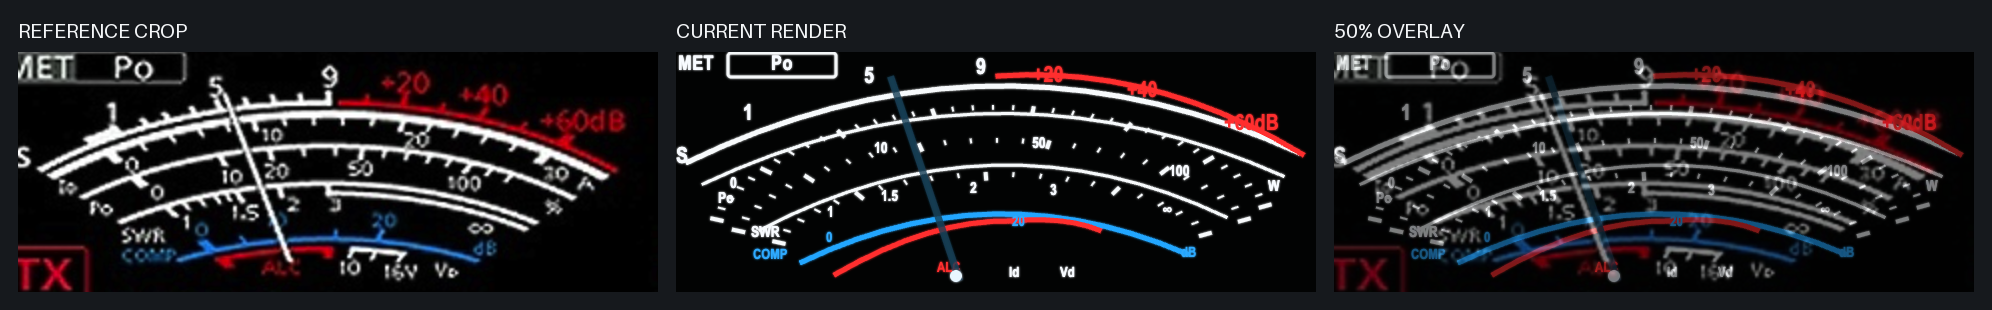
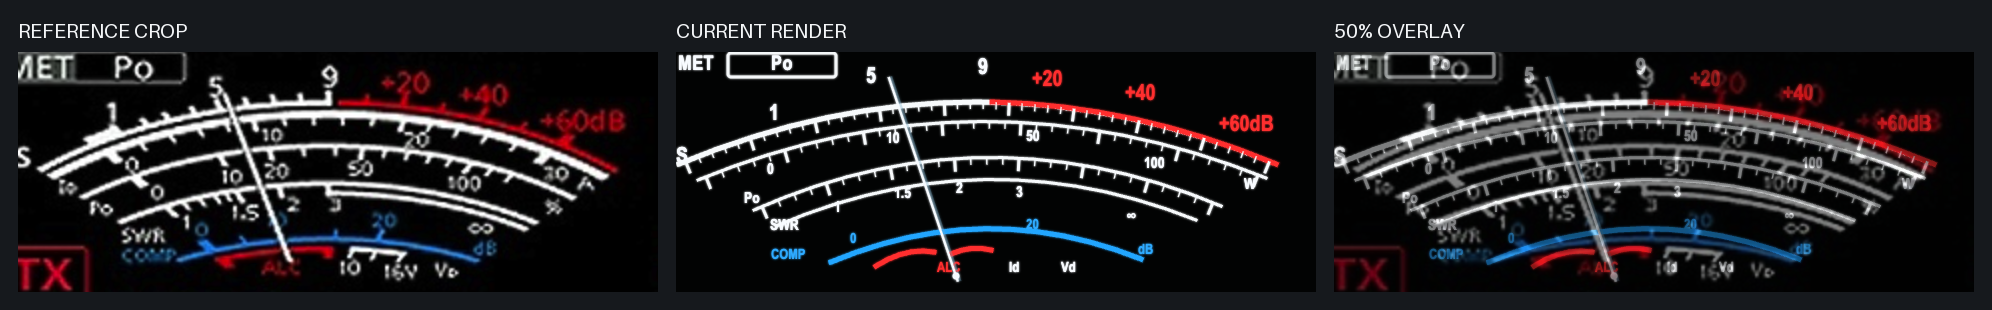
fix: refine touchscreen needle geometry

Changed region(s): [[0.3424, 0.2032, 0.996, 0.9], [0.8092, 0.8419, 0.8715, 0.9], [0.747, 0.2323, 0.7781, 0.2613]]

diff --git a/frontend/src/components-v2/meters/IcomTouchNeedleMeter.svelte b/frontend/src/components-v2/meters/IcomTouchNeedleMeter.svelte
@@ -39,23 +39,33 @@
     readonly major: boolean;
   }
 
-  const radialTicks = (count: number, cx: number, cy: number, rx: number, ry: number): Tick[] =>
+  interface Point { readonly x: number; readonly y: number }
+
+  const curveTicks = (
+    count: number, start: Point, control: Point, end: Point, majorEvery: number,
+  ): Tick[] =>
     Array.from({ length: count }, (_, index) => {
-      const angle = (-160 + (135 * index) / (count - 1)) * Math.PI / 180;
-      const major = index % 5 === 0;
-      const inset = major ? 14 : 8;
+      const t = (index + 0.5) / count;
+      const inverse = 1 - t;
+      const x1 = inverse * inverse * start.x + 2 * inverse * t * control.x + t * t * end.x;
+      const y1 = inverse * inverse * start.y + 2 * inverse * t * control.y + t * t * end.y;
+      const dx = 2 * inverse * (control.x - start.x) + 2 * t * (end.x - control.x);
+      const dy = 2 * inverse * (control.y - start.y) + 2 * t * (end.y - control.y);
+      const magnitude = Math.hypot(dx, dy);
+      const major = index % majorEvery === 0;
+      const inset = major ? 13 : 7;
       return {
-        x1: cx + rx * Math.cos(angle),
-        y1: cy + ry * Math.sin(angle),
-        x2: cx + (rx - inset) * Math.cos(angle),
-        y2: cy + (ry - inset * 0.6) * Math.sin(angle),
+        x1,
+        y1,
+        x2: x1 + (-dy / magnitude) * inset,
+        y2: y1 + (dx / magnitude) * inset,
         major,
       };
     });
 
-  const OUTER_TICKS = radialTicks(36, 320, 225, 304, 172);
-  const POWER_TICKS = radialTicks(26, 320, 225, 281, 139);
-  const INNER_TICKS = radialTicks(21, 320, 225, 238, 105);
+  const OUTER_TICKS = curveTicks(46, { x: 3, y: 112 }, { x: 300, y: -12 }, { x: 600, y: 112 }, 5);
+  const POWER_TICKS = curveTicks(36, { x: 22, y: 128 }, { x: 305, y: 12 }, { x: 590, y: 126 }, 5);
+  const INNER_TICKS = curveTicks(29, { x: 78, y: 158 }, { x: 310, y: 55 }, { x: 545, y: 154 }, 4);
 </script>
 
 <div
@@ -76,11 +86,6 @@
         <feGaussianBlur stdDeviation="1.1" result="blur" />
         <feMerge><feMergeNode in="blur" /><feMergeNode in="SourceGraphic" /></feMerge>
       </filter>
-      <linearGradient id="meter-needle" x1="0" x2="1">
-        <stop offset="0" stop-color="#73cfff" />
-        <stop offset="0.45" stop-color="#f5fbff" />
-        <stop offset="1" stop-color="#ffffff" />
-      </linearGradient>
     </defs>
 
     <rect width="640" height="240" fill="#020303" />
@@ -96,8 +101,8 @@
         <text x="106" y="18" text-anchor="middle">{selectedScale}</text>
       </g>
 
-      <path class="scale white heavy" d="M 12 110 Q 318 -38 626 102" />
-      <path class="scale red heavy" d="M 322 24 Q 478 13 626 102" />
+      <path class="scale white heavy" d="M 3 112 Q 300 -12 600 112" />
+      <path class="scale red heavy" d="M 316 50 Q 458 53 600 112" />
       {#each OUTER_TICKS as tick}
         <line
           class:major={tick.major}
@@ -108,15 +113,15 @@
 
       <g class="outer-labels">
         <text x="0" y="111">S</text>
-        <text x="67" y="68">1</text>
-        <text x="188" y="31">5</text>
-        <text x="300" y="22">9</text>
-        <text class="red-text" x="357" y="30">+20</text>
-        <text class="red-text" x="451" y="45">+40</text>
-        <text class="red-text" x="548" y="78">+60dB</text>
+        <text x="93" y="68">1</text>
+        <text x="190" y="31">5</text>
+        <text x="302" y="22">9</text>
+        <text class="red-text" x="356" y="34">+20</text>
+        <text class="red-text" x="449" y="48">+40</text>
+        <text class="red-text" x="543" y="79">+60dB</text>
       </g>
 
-      <path class="scale white" d="M 27 132 Q 318 -5 607 124" />
+      <path class="scale white" d="M 22 128 Q 305 12 590 126" />
       {#each POWER_TICKS as tick}
         <line
           class:major={tick.major}
@@ -125,15 +130,15 @@
         />
       {/each}
       <g class="power-labels">
-        <text x="54" y="136">0</text>
-        <text x="198" y="101">10</text>
-        <text x="356" y="96">50</text>
-        <text x="493" y="124">100</text>
-        <text x="592" y="139">W</text>
-        <text x="42" y="151">Po</text>
+        <text x="91" y="122">0</text>
+        <text x="210" y="91">10</text>
+        <text x="350" y="89">50</text>
+        <text x="468" y="116">100</text>
+        <text x="568" y="137">W</text>
+        <text x="68" y="151">Po</text>
       </g>
 
-      <path class="scale white" d="M 84 178 Q 318 55 550 165" />
+      <path class="scale white" d="M 78 158 Q 310 55 545 154" />
       {#each INNER_TICKS as tick}
         <line
           class:major={tick.major}
@@ -141,26 +146,27 @@
           x1={tick.x1} y1={tick.y1} x2={tick.x2} y2={tick.y2}
         />
       {/each}
+      <path class="scale white" d="M 100 174 Q 310 84 520 168" />
       <g class="inner-labels">
-        <text x="75" y="185">SWR</text>
-        <text x="151" y="165">1</text>
-        <text x="205" y="149">1.5</text>
-        <text x="294" y="141">2</text>
-        <text x="374" y="143">3</text>
-        <text x="486" y="163">∞</text>
+        <text x="94" y="178">SWR</text>
+        <text x="158" y="160">1</text>
+        <text x="218" y="146">1.5</text>
+        <text x="280" y="141">2</text>
+        <text x="340" y="145">3</text>
+        <text x="450" y="169">∞</text>
       </g>
 
-      <path class="scale blue heavy" d="M 126 210 Q 317 118 511 202" />
-      <path class="scale red heavy" d="M 160 222 Q 255 167 337 169" />
-      <path class="scale red heavy" d="M 334 169 Q 389 164 423 178" />
+      <path class="scale blue heavy" d="M 155 210 Q 310 145 465 207" />
+      <path class="scale red heavy" d="M 200 214 Q 230 195 258 200" />
+      <path class="scale red heavy" d="M 275 202 Q 295 193 315 198" />
       <g class="lower-labels">
-        <text class="blue-text" x="77" y="207">COMP</text>
-        <text class="blue-text" x="150" y="190">0</text>
-        <text class="blue-text" x="336" y="174">20</text>
-        <text class="blue-text" x="505" y="205">dB</text>
+        <text class="blue-text" x="95" y="207">COMP</text>
+        <text class="blue-text" x="174" y="191">0</text>
+        <text class="blue-text" x="350" y="177">20</text>
+        <text class="blue-text" x="462" y="202">dB</text>
         <text class="red-text" x="261" y="220">ALC</text>
-        <text x="333" y="225">Id</text>
-        <text x="384" y="225">Vd</text>
+        <text x="333" y="220">Id</text>
+        <text x="385" y="220">Vd</text>
       </g>
 
       {#if state === 'known'}
@@ -168,7 +174,7 @@
           <line class="needle-shadow" x1="274" y1="226" x2="490" y2="226" />
           <line class="needle" x1="274" y1="224" x2="490" y2="224" />
         </g>
-        <circle cx="280" cy="224" r="6" fill="#e8f6ff" />
+        <circle cx="280" cy="224" r="3.5" fill="#f6fbff" />
       {:else if state === 'unknown'}
         <text data-meter-unknown class="unknown" x="320" y="213" text-anchor="middle">?</text>
       {/if}
@@ -201,15 +207,15 @@
   .white { stroke: #f7fafc; }
   .red { stroke: #ff2f2f; }
   .blue { stroke: #24a6ff; }
-  .tick { stroke: #f7fafc; stroke-width: 2; }
-  .tick.major { stroke-width: 4; }
+  .tick { stroke: #f7fafc; stroke-width: 1.4; }
+  .tick.major { stroke-width: 3; }
   .outer-labels text { font-size: 22px; }
   .power-labels text, .inner-labels text { font-size: 15px; }
   .lower-labels text { font-size: 14px; }
   text.red-text { fill: #ff2f2f; }
   text.blue-text { fill: #2daaff; }
-  .needle-shadow { stroke: #163d54; stroke-width: 7; opacity: 0.8; }
-  .needle { stroke: url(#meter-needle); stroke-width: 3; }
+  .needle-shadow { stroke: #72a9c6; stroke-width: 3.2; opacity: 0.32; }
+  .needle { stroke: #f7fbff; stroke-width: 2.4; }
   .unknown { fill: #9ca7ad; font-size: 34px; }
   .visually-hidden {
     position: absolute;

diff --git a/docs/plans/discovery-artifacts/touchscreen-needle-meter/visual-review.md b/docs/plans/discovery-artifacts/touchscreen-needle-meter/visual-review.md
@@ -8,9 +8,16 @@
 - Capture command: `node fixtures/design-a-face-v2/capture.mjs --out ../docs/plans/discovery-artifacts/touchscreen-needle-meter/current-render.png`.
 - Comparison command: bundled Python runtime plus `visualize.py --map ... --render ... --comparison ...`.
 
-## One bounded correction
+## Correction history
 
-The first overlay put the rendered needle pivot about 40 pixels to the right of the reference pivot, roughly 6.25% of crop width and outside the 2% primary-landmark threshold. One correction moved only the pointer pivot from x=320 to x=280 and adjusted the fixture sample from 0.34 to 0.38. The final overlay aligns the pivot and pointer direction closely; neighbouring elements and other graphic families were not changed.
+The original overlay put the rendered needle pivot about 40 pixels to the right of the reference pivot, roughly 6.25% of crop width. The first bounded correction moved only the pivot and fixture sample. Owner review then blocked the crop on arc curvature, tick placement, label centers, lower-scale spacing, and pointer ink.
+
+The owner-authorized follow-up used two bounded passes:
+
+1. Replaced ellipse-derived ticks with normals calculated from the three rendered quadratic scale curves; raised the white/red outer arcs to the reference apex; increased tick density to 46 / 36 / 29; moved the literal labels to the overlay landmarks; and shortened/repositioned the blue and red lower arcs.
+2. Added the missing lower white SWR baseline, shortened the outer arc's right endpoint, moved `Id`/`Vd` to the reference baseline, and changed the pointer from a wide blue stroke to a 2.4-pixel white stroke with a subtle 3.2-pixel cool edge.
+
+No semantic state, public prop, neighbouring region, repeated instrument, or composition changed in either pass.
 
 ## Final comparison findings
 
@@ -18,12 +25,13 @@ The first overlay put the rendered needle pivot about 40 pixels to the right of 
 | --- | --- |
 | Selected-region bounds | Exact same 640 by 240 crop and viewport; passes the 1.5% bounds threshold mechanically. |
 | Pointer pivot | Final centers overlap within about 2 pixels by direct overlay inspection; inside the 2% landmark threshold. |
-| Pointer direction/tip | Direction is close, but the rendered tip remains several pixels higher; owner review remains required. |
-| Primary outer arc | The current arc has greater curvature and a higher apex than the reference. This is a visible miss, not accepted by tests. |
-| Major ticks | The same radial family is present, but density and several positions differ beyond anti-aliasing. |
-| Label centers | `S`, `1`, `5`, `9`, `+20`, `+40`, and `+60dB` preserve hierarchy and order; several centers remain displaced. |
-| Lower scales | Po/SWR/COMP/ALC/Id/Vd families and colour hierarchy are present. Their exact baselines and tick counts remain approximate. |
-| Ink levels | Current strokes are cleaner and brighter; the pointer is substantially thicker and bluer than the white reference pointer. |
+| Pointer direction/tip | Direction and tip now overlap closely. The pointer is white-dominant with only a narrow cool edge; its remaining difference is reference blur and subpixel rasterization. |
+| Primary outer arc | Apex and left endpoint now overlap closely. The current right endpoint is about 6 pixels beyond the long red reference stroke; this is under 1% of crop width. |
+| Major/minor ticks | Density and radial placement now follow each curve rather than a separate ellipse. Minor length and reference blur still differ locally. |
+| Label centers | `S`, `1`, `5`, `9`, `+20`, `+40`, `+60dB`, and the Po/SWR labels are materially aligned in the final overlay. Font metrics remain cleaner and narrower than the raster reference. |
+| White scale baselines | Four curved white baselines are now present, including the lower SWR boundary missing from the blocked render. Their primary intersections align materially in the overlay. |
+| Lower scales | The blue path now runs approximately x=155..465 versus the reference's x=159..460 coloured run; the two short red ALC segments match the reference's separated shape. |
+| Ink levels | White/red/blue hierarchy now matches, and the pointer is no longer a thick blue stroke. Current vector ink remains sharper than the photographed/rasterized source. |
 | Neighbouring TX cell | The reference crop contains a partial neighbouring TX cell. The selected component correctly does not reproduce it. |
 
-Semantic and component tests do not upgrade these deviations to visual acceptance. The result is a bounded first representative for owner review, not approval to compose the full face or repeat the instrument.
+The final overlay is materially closer than the owner-blocked render. Semantic and component tests still do not grant visual acceptance: the owner must review this exact comparison before any repeated instrument or full-face composition may begin.
